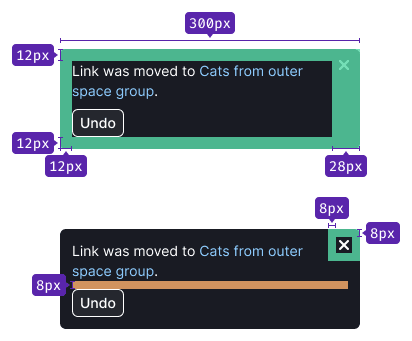
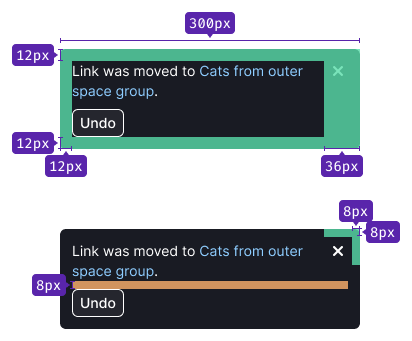
[docs] Updated a11y attributes and margins description

Changed region(s): [[0.7573, 0.5572, 0.9612, 0.7918], [0.7573, 0.4399, 0.9029, 0.5279], [0.7864, 0.176, 0.8447, 0.4399]]

diff --git a/website/docs/components/notice-bubble/notice-bubble-a11y.md b/website/docs/components/notice-bubble/notice-bubble-a11y.md
@@ -22,18 +22,18 @@ The list below describes roles and attributes that component already has.
 
 Table: Roles and attributes
 
-| Role   | Attribute               | Element                                                      | Usage                                                                                                                                                                                                                               |
-| ------ | ----------------------- | ------------------------------------------------------------ | ----------------------------------------------------------------------------------------------------------------------------------------------------------------------------------------------------------------------------------- |
-| `alert`  |                         | `div`  | Identifies the element as the container where alert content will be added or updated.                                                                                                                                               |
-|        | `aria-live="assertive"` | Implicit on `div` | This doesn't have to be declared in the code because it is implicit in the alert role. Tells assistive technologies to interrupt other processes to provide users with immediate notification of relevant alert container changes. |
-|        | `aria-atomic="true"`    | Implicit on `div`                                            | This doesn't have to be declared in the code because it is implicit in the alert role. Tells assistive technologies to use the entire content of the alert element as the alert message even if only a portion of it has changed.  |
+| Component                 | Attribute                                     | Usage                                                                                                                                                                                                                               |
+| ------------------------- | --------------------------------------------- | ----------------------------------------------------------------------------------------------------------------------------------------------------------------------------------------------------------------------------------- |
+| `NoticeBubbleContainer`   | `role="region"`, `aria-label="Notifications"` | Defines a landmark, so that users can easily navigate to it and access elements inside. |
+| `NoticeBubbleContainer`   | `aria-live="polite"`                          | Instructs the screen reader to announce changes inside the container whenever the user is idle. |
+| `Bubble.Content`          | `role="alert"` (only with `type="warning"`)   | Instructs the screen reader to announce the changes immediately, interrupting other processes. |
 
 ## Considerations for developers
 
-- Elements with the `aria-live` attribute, `status` role or `alert` role are automatically announced only when their content changes. So, if you want your content to be announced automatically, you should initially create an empty element and then update its content.
+- Elements with the `aria-live` attribute or `status` role are automatically announced only when their content changes. So, if you want your content to be announced automatically, you should initially create an empty element and then update its content.
 - Don't trap keyboard focus in the `NoticeBubble`. Users should be able to navigate in and out freely.
 - If keyboard focus was in the `NoticeBubble`, after closing it set focus back on the element that triggered the notice. If that element doesn't exist anymore, set focus on its parent landmark.
-- If your `NoticeBubble` has interactive elements beside the **Close** button, set keyboard focus on the first non-destructive interactive element when the `NoticeBubble` appears.
+- If your `NoticeBubble` has interactive elements beside the **Close** button, set keyboard focus on the first non-destructive interactive element when the `NoticeBubble` appears ([example](./notice-bubble-code.md#focus-management)).
 
 ## Other recommendations
 

diff --git a/website/docs/components/notice-bubble/notice-bubble.md b/website/docs/components/notice-bubble/notice-bubble.md
@@ -78,8 +78,9 @@ Table: Use cases for NoticeBubble types
 ![](static/noticeBubble2.png)
 
 - The alert has a fixed width of 300px.
-- Container has paddings `12px 28px 12px 12px`.
-- There is an 8px margin between the button and the text.
+- Container has `12px 36px 12px 12px` paddings.
+- The **Close** button has absolute position with 8px top and right margins.
+- The gap between the text and any action buttons below it is 8px.
 - If there is a spinner preceding the text, then the margin between the spinner and the text is 4px (use [Spin](/components/spin/spin) with XS size).
 - In the loading and success states, the margin between the spinner/icon and the text is also 4px.
 - For the loading state, use [Spin](/components/spin/spin) with XS size.

diff --git a/website/docs/components/notice-bubble/notice-bubble-code.md b/website/docs/components/notice-bubble/notice-bubble-code.md
@@ -31,7 +31,9 @@ Parent should have `position: relative` and `overflow` with scroll.
 
 :::
 
-## Undo action
+## Focus management
+
+In this example keyboard focus is automatically set on the first interactive element in the bubble.
 
 ::: sandbox
 
@@ -82,6 +84,8 @@ Parent should have `position: relative` and `overflow` with scroll.
 :::
 
 ## Notice with loading state
+
+Activate the **Try again** button in the notice to see the loading state.
 
 ::: sandbox
 
